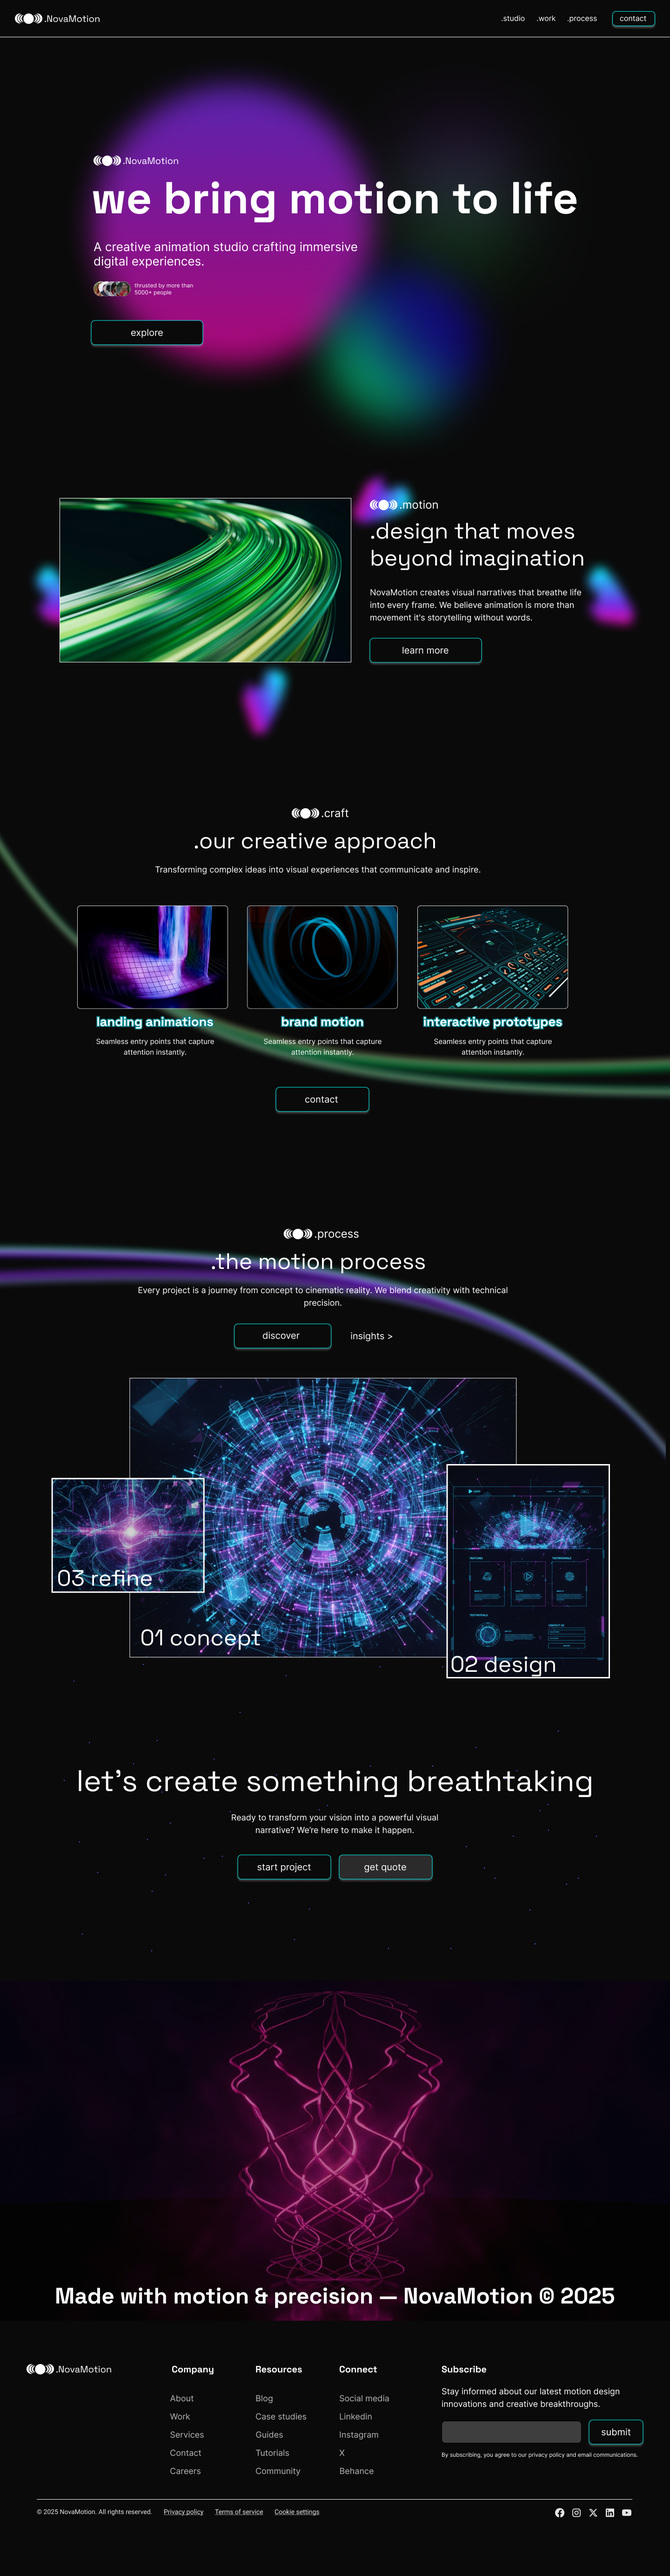
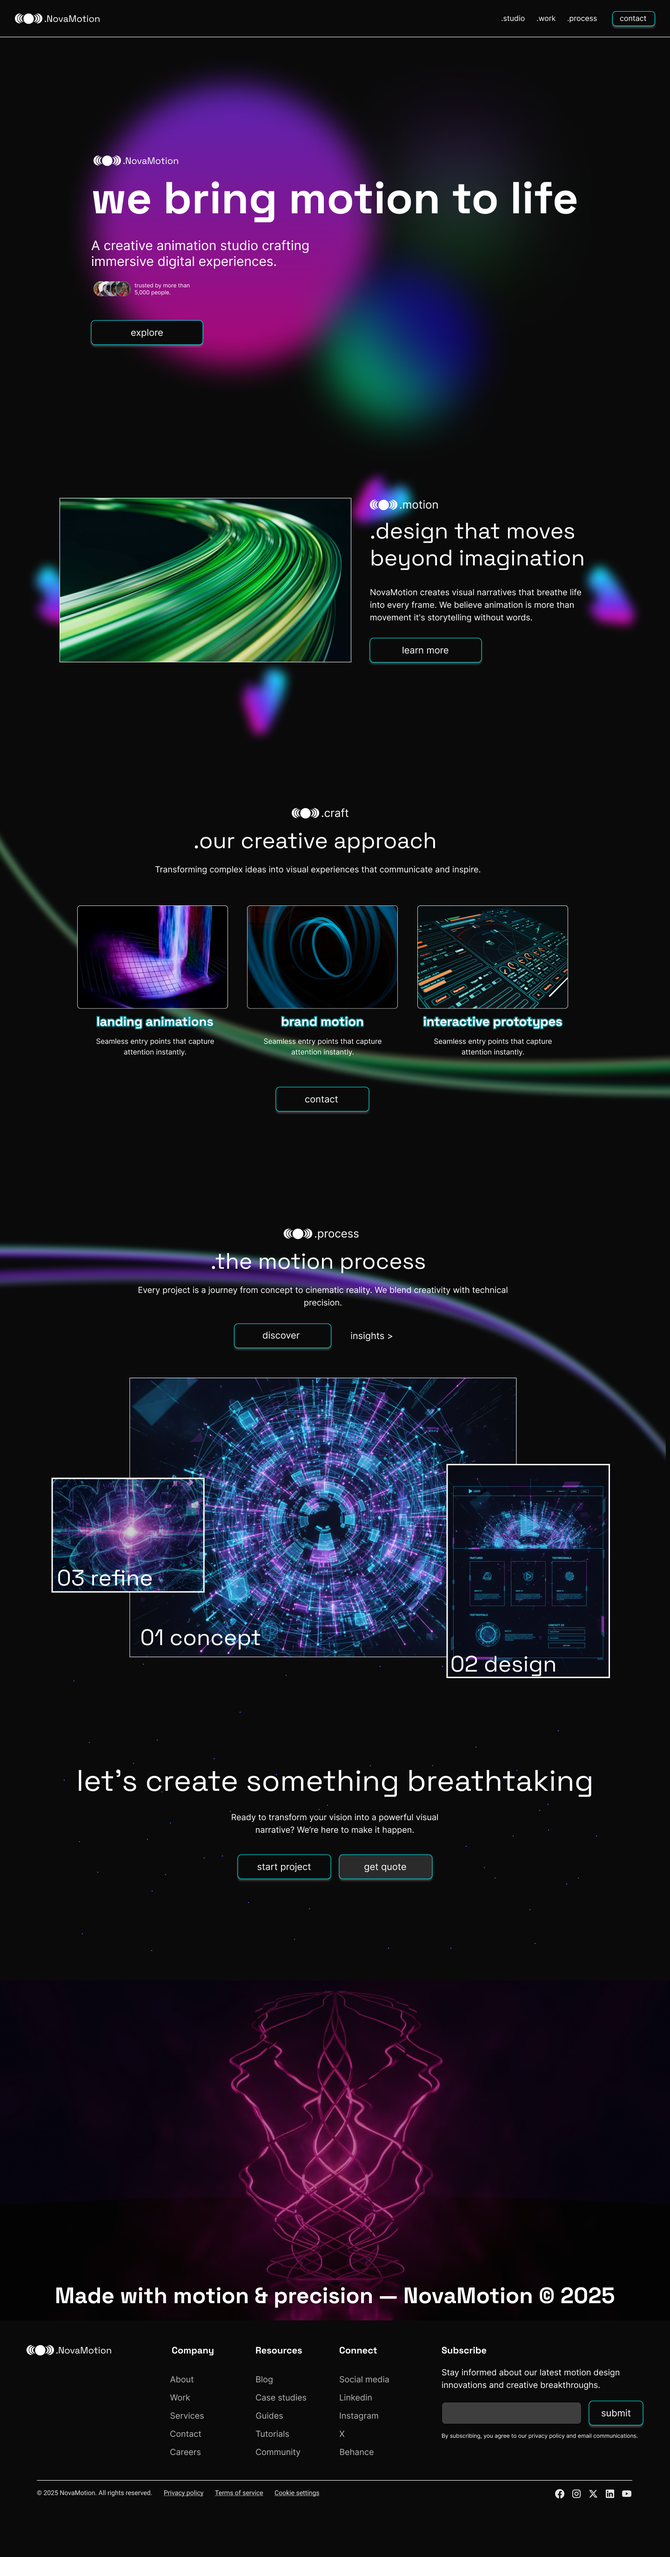
chore: minor hero section and design typo fixes

diff --git a/index.html b/index.html
@@ -7,6 +7,8 @@
     <link rel="stylesheet" href="/css/style.css">
 </head>
 <body>
+
+   <!--Navbar--> 
     <div class="navbar">
         <div class="logo">
             <img src="assets/images/logo.svg" alt="logo">
@@ -15,10 +17,43 @@
         <div class="nav-links">
             <ul><a href="">.studio</a></ul>
             <ul><a href="">.work</a></ul>
-            <ul><a href="">.process</a></ul>
+            <ul><a href="/">.process</a></ul>
             <button class="btn" id="contact-btn"><a href="">contact</a></button>
         </div>
-        
+    </div>
+
+    <!--hero--> 
+    <div class="hero">
+        <div class="container">
+            <div class="blobs">
+                <div class="blob-1"></div>
+                <div class="blob-2"></div>
+                <div class="blob-3"></div>
+            </div>
+
+            <div class="hero-content">
+                <div class="logo">
+                    <img src="assets/images/logo.svg" alt="logo">
+                    <p>.NovaMotion</p>
+                </div>
+                <h1>
+                    we bring motion to life
+                </h1>
+                <p id="hero-p">
+                    A creative animation studio crafting immersive digital experience.
+                </p>
+
+                <div class="people-wrapper">
+                    <div class="people"></div>
+                    <p>trusted by more than 5,000 people. </p>
+                </div>
+
+                <button>
+                    expolore
+                </button>
+
+            </div>
+        </div>
     </div>
 
 

diff --git a/css/style.css b/css/style.css
@@ -1,5 +1,5 @@
 @import url('https://fonts.googleapis.com/css2?family=Inter:ital,opsz,wght@0,14..32,100..900;1,14..32,100..900&display=swap');
-
+@import url('https://fonts.googleapis.com/css2?family=Inter:ital,opsz,wght@0,14..32,100..900;1,14..32,100..900&family=Space+Grotesk:wght@300..700&display=swap');
 
 
 body{
@@ -11,6 +11,8 @@ body{
     font-style: normal;
     text-decoration: none;
 }
+
+/*-- NAVBAR--*/
 
 .navbar{
     display: flex;
@@ -57,4 +59,37 @@ a:link{
     width: 92px;
     height: 32px;
     margin-left: 32px;
+}
+
+/*-- NAVBAR end--*/
+
+
+/*-- HERO--*/
+.hero{
+    align-items: center;
+    padding: 102px 120px 102px 120px; 
+}
+
+.container{
+    margin-left: auto;
+    margin-right: auto;
+    width: 1300px;
+}
+
+h1 {
+  font-family: "Space Grotesk", sans-serif;
+  font-optical-sizing: auto;
+  font-weight: 600;
+  font-size: 96px;
+  line-height: 120%;
+  margin-top: 12px;
+  margin-bottom: 28px;
+}
+
+#hero-p{
+    font-family: "Inter", sans-serif;
+    font-optical-sizing: auto;
+    font-weight: 300;
+    font-size: 28px;
+    width: 480px;
 }
